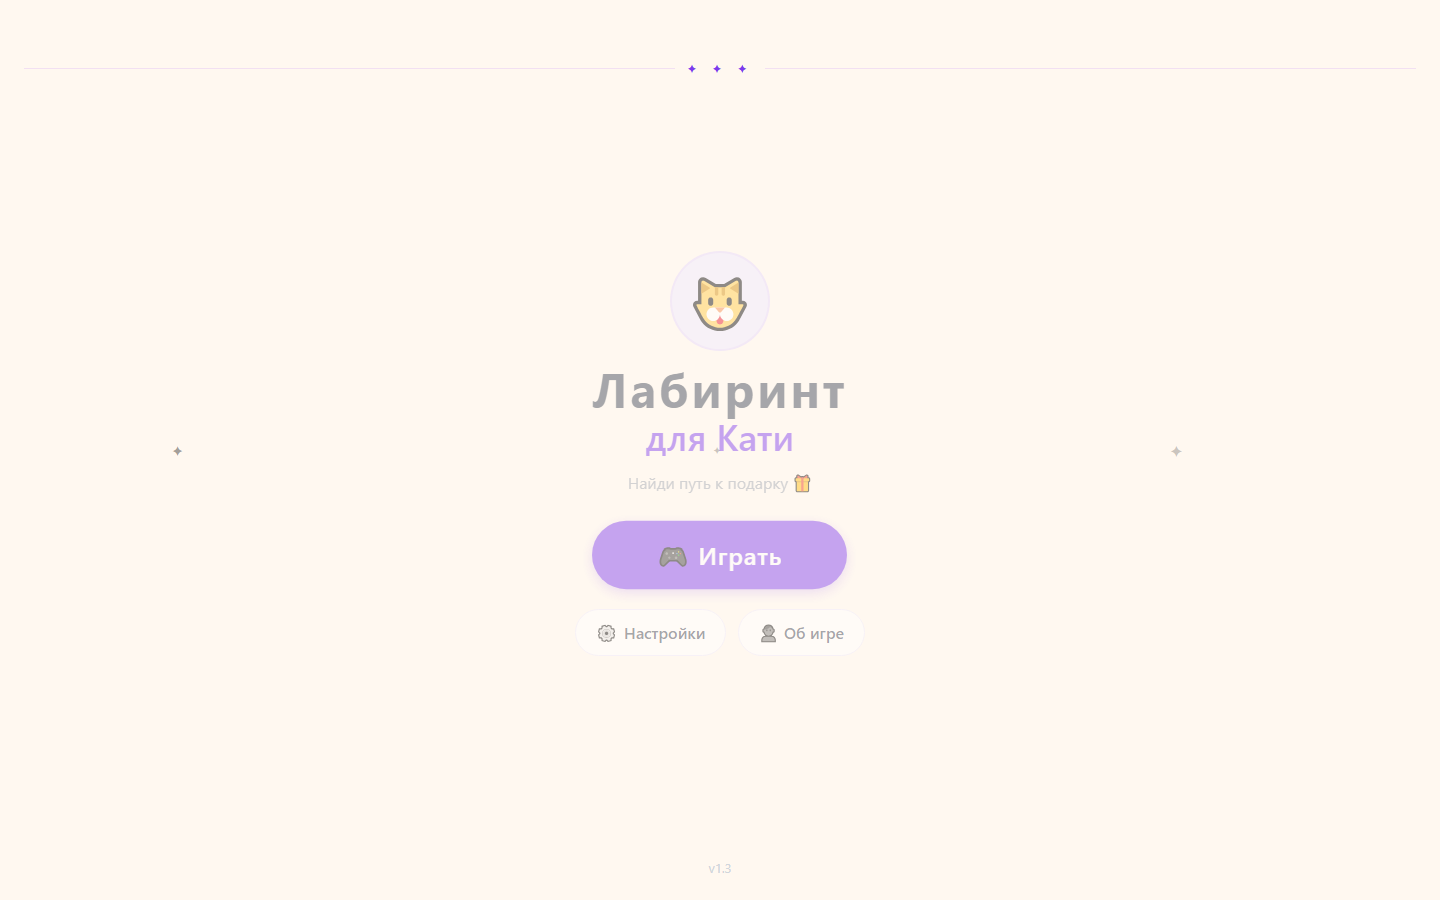
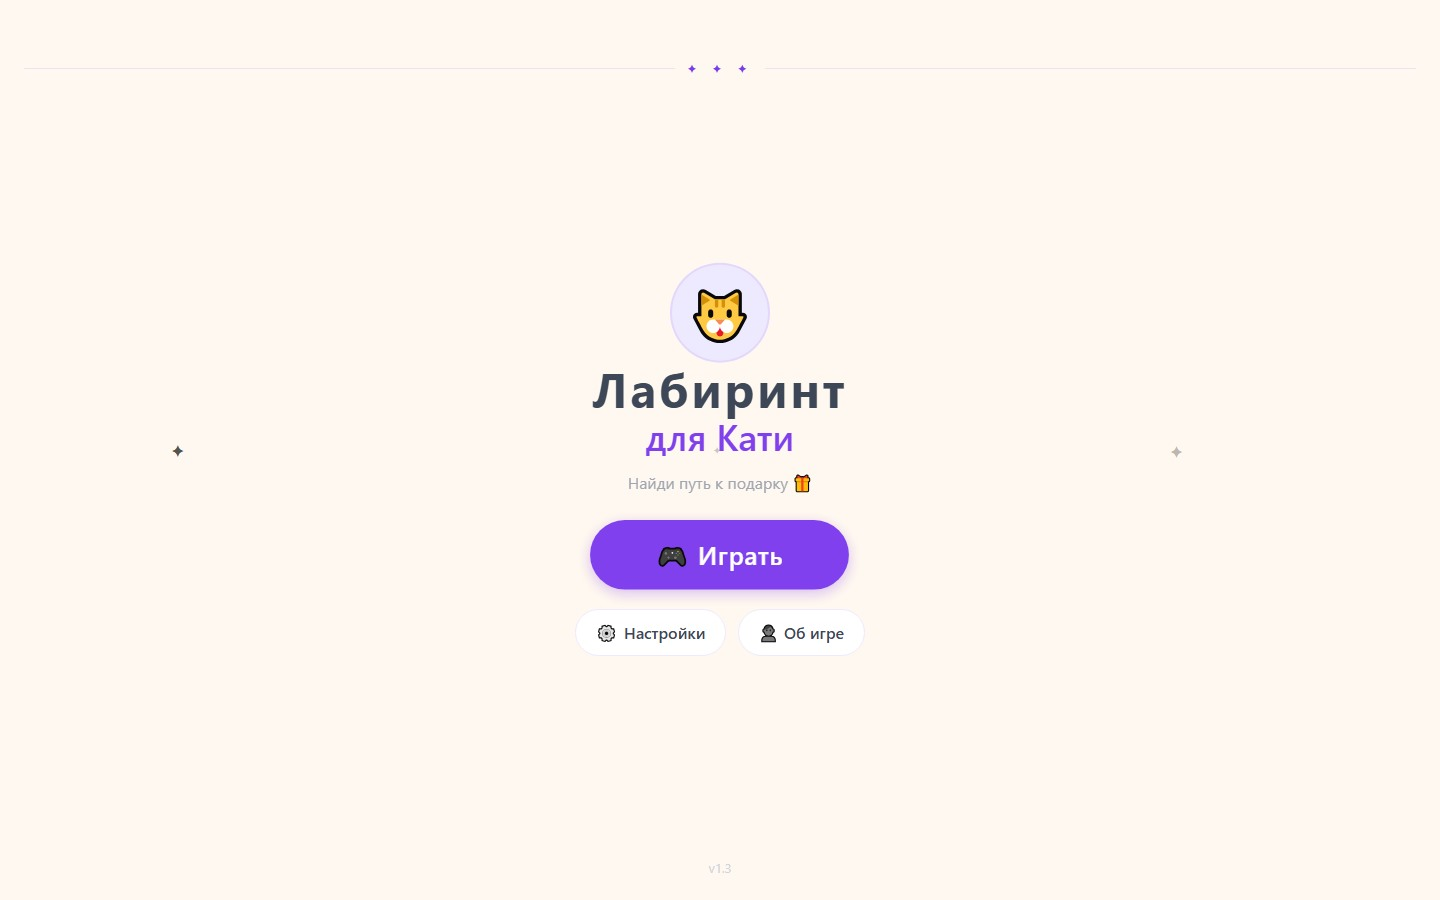
Add HQ screenshots & galleries for all projects (multi-page where possible)

Changed region(s): [[0.4062, 0.5289, 0.5938, 0.7156], [0.4062, 0.3111, 0.5938, 0.4978]]

diff --git a/js/data.js b/js/data.js
@@ -274,7 +274,7 @@ const PROJECTS = [
     demo: null,
     image: "assets/shots/flowers-flower_dark.jpg",
     phone: true,
-    gallery: ["assets/shots/flowers-flower_dark.jpg", "assets/shots/flowers-horoscope.jpg", "assets/shots/flowers-tarot.jpg", "assets/shots/flowers-friends.jpg"],
+    gallery: ["assets/shots/flowers-flower_dark.jpg", "assets/shots/flower.jpg", "assets/shots/flowers-horoscope.jpg", "assets/shots/flowers-tarot.jpg", "assets/shots/flowers-friends.jpg", "assets/shots/welcome.jpg", "assets/shots/settings.jpg"],
     ru: {
       title: "Цветочек",
       subtitle: "Мобильное приложение с характером",
@@ -306,7 +306,8 @@ const PROJECTS = [
     tags: ["C#", "ASP.NET Core", "Razor Pages", "SQL"],
     repo: "https://github.com/Moty2111/Monopolist",
     demo: "https://moty2111.github.io/Monopolist/",
-    image: "assets/shots/monopolist-card.jpg",
+    image: "assets/shots/monopolist-main.jpg",
+    gallery: ["assets/shots/monopolist-main.jpg", "assets/shots/monopolist-card.jpg"],
     ru: {
       title: "Моноплист",
       subtitle: "Управление строительным магазином",
@@ -338,7 +339,8 @@ const PROJECTS = [
     tags: ["HTML", "CSS", "JavaScript", "Three.js"],
     repo: "https://github.com/Moty2111/Katuysha",
     demo: "https://moty2111.github.io/Katuysha/",
-    image: "assets/shots/katuysha-inside.jpg",
+    image: "assets/shots/katuysha-main.jpg",
+    gallery: ["assets/shots/katuysha-main.jpg", "assets/shots/katuysha-inside.jpg", "assets/shots/katuysha-card.jpg"],
     ru: {
       title: "С днём рождения, Катя",
       subtitle: "Открытка с 3D-тортом и играми",
@@ -403,8 +405,8 @@ const PROJECTS = [
     tags: ["HTML", "CSS", "JavaScript"],
     repo: "https://github.com/Moty2111/Bogdan",
     demo: "https://moty2111.github.io/Bogdan/",
-    image: "assets/shots/bogdan-live.jpg",
-    gallery: ["assets/shots/bogdan-live.jpg", "assets/shots/bogdan-card.jpg"],
+    image: "assets/shots/bogdan-main.jpg",
+    gallery: ["assets/shots/bogdan-main.jpg", "assets/shots/bogdan-live.jpg", "assets/shots/bogdan-card.jpg"],
     ru: {
       title: "Открытка для Богдана",
       subtitle: "Подарок, который нужно открыть",
@@ -436,7 +438,8 @@ const PROJECTS = [
     tags: ["HTML", "CSS", "PDF"],
     repo: "https://github.com/Moty2111/Nika",
     demo: "https://moty2111.github.io/Nika/",
-    image: "assets/shots/nika-card.jpg",
+    image: "assets/shots/nika-main.jpg",
+    gallery: ["assets/shots/nika-main.jpg", "assets/shots/nika-card.jpg"],
     ru: {
       title: "Открытка для мамы",
       subtitle: "Тёплая история в страницах",
@@ -468,7 +471,8 @@ const PROJECTS = [
     tags: ["HTML", "CSS", "CSS Art"],
     repo: "https://github.com/Moty2111/Pasxa",
     demo: "https://moty2111.github.io/Pasxa/",
-    image: "assets/shots/pasxa-card.jpg",
+    image: "assets/shots/pasxa-main.jpg",
+    gallery: ["assets/shots/pasxa-main.jpg", "assets/shots/pasxa-card.jpg"],
     ru: {
       title: "Пасхальная открытка",
       subtitle: "Всё нарисовано кодом",
@@ -501,6 +505,7 @@ const PROJECTS = [
     repo: "https://github.com/Moty2111/Race",
     demo: "demos/race/",
     image: "assets/shots/race-card.jpg",
+    gallery: ["assets/shots/race-card.jpg", "assets/shots/race.jpg"],
     ru: {
       title: "3D Гонки",
       subtitle: "Кольцевая трасса в браузере",
@@ -532,7 +537,8 @@ const PROJECTS = [
     tags: ["HTML", "CSS", "JavaScript", "3D CSS"],
     repo: "https://github.com/Moty2111/8marta",
     demo: "https://moty2111.github.io/8marta/",
-    image: "assets/shots/8marta-card.jpg",
+    image: "assets/shots/8marta-main.jpg",
+    gallery: ["assets/shots/8marta-main.jpg", "assets/shots/8marta-card.jpg"],
     ru: {
       title: "Живая 3D-открытка к 8 марта",
       subtitle: "Книга, которая перелистывается",
@@ -564,7 +570,8 @@ const PROJECTS = [
     tags: ["HTML", "CSS"],
     repo: "https://github.com/Moty2111/Strityxa",
     demo: "demos/strityxa/",
-    image: "assets/shots/strityxa-card.jpg",
+    image: "assets/shots/strityxa-main.jpg",
+    gallery: ["assets/shots/strityxa-main.jpg", "assets/shots/strityxa-news.jpg", "assets/shots/strityxa-teams.jpg", "assets/shots/strityxa-tournaments.jpg", "assets/shots/strityxa-card.jpg"],
     ru: {
       title: "Футбольный мир",
       subtitle: "Мой первый сайт",
@@ -628,7 +635,8 @@ const PROJECTS = [
     tags: ["HTML", "CSS", "JavaScript"],
     repo: "https://github.com/Moty2111/My-sawes",
     demo: "https://moty2111.github.io/My-sawes/",
-    image: "assets/shots/my-sawes-card.jpg",
+    image: "assets/shots/mysawes-main.jpg",
+    gallery: ["assets/shots/mysawes-main.jpg", "assets/shots/my-sawes-card.jpg"],
     ru: {
       title: "BuildPro",
       subtitle: "Магазин стройматериалов",
@@ -692,7 +700,8 @@ const PROJECTS = [
     tags: ["HTML", "CSS", "JavaScript"],
     repo: "https://github.com/Moty2111/Ne-grusty",
     demo: "https://moty2111.github.io/Ne-grusty/",
-    image: "assets/shots/ne-grusty-card.jpg",
+    image: "assets/shots/negrusty-main.jpg",
+    gallery: ["assets/shots/negrusty-main.jpg", "assets/shots/ne-grusty-card.jpg"],
     ru: {
       title: "Для Кати · тихая ночь",
       subtitle: "Открытка-письмо",
